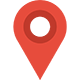
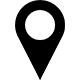
add script for floating fixed header and edit view map-marker

diff --git a/js/main.js b/js/main.js
@@ -25,7 +25,7 @@ var contact=document.querySelector(".contact-link");
 				top = top + 20;
 				console.log(top);
 				window.scrollTo(scrolledValue, top);	    
-				if (top > 3150) {
+				if (top > 3135) {
 			    clearInterval(scr);
 				}
 			}, 5);
@@ -34,8 +34,8 @@ var contact=document.querySelector(".contact-link");
 	
 
     function initialize() {
-	    var x = 50.473869;
-	    var y = 30.497340;
+	    var x = 50.473773;
+	    var y = 30.497345;
 	    var mapOptions = {
 	        zoom: 17,
 	        center: new google.maps.LatLng(x, y),
@@ -46,7 +46,7 @@ var contact=document.querySelector(".contact-link");
 	        document.querySelector(".map"),
 	        mapOptions
 	    );
-	    var image = "img/map-marker.png"; 
+	    var image = "img/map-marker-2.png"; 
 	    var myLatLng = new google.maps.LatLng(x, y);
 	    var beachMarker = new google.maps.Marker({
 	        position: myLatLng,
@@ -55,3 +55,22 @@ var contact=document.querySelector(".contact-link");
 	    });
 }
 google.maps.event.addDomListener(window, "load", initialize);		
+
+var header=document.querySelector(".main-header-block");
+var headerHiddenBlock=document.querySelector(".main-header-block-hidden");
+
+
+window.addEventListener("scroll", function(event) {
+  
+    var top = this.scrollY;
+ // console.log(top);
+ // console.log(header);
+  if (top >= 100) {
+    header.classList.add("main-header-block-hollow");
+ 	headerHiddenBlock.classList.add("visible");
+} else {
+	header.classList.remove("main-header-block-hollow");
+	headerHiddenBlock.classList.remove("visible");
+}
+
+}, false);

diff --git a/css/style.css b/css/style.css
@@ -19,17 +19,46 @@ body {
 	clear: both;
 	content: "";
 }
-.main-header-block-hollow {
-	height: 60px;
-}
+
 
 .main-header-block {
 	background-color: #3f3f3f;
+
+}
+	@keyframes floating {
+	0% {
+		transform: translateY(-100px);
+		background-color: rgba(64, 64, 64, 1);
+	} 
+	85% {
+	transform: translateY(+20px);
+	background-color: rgba(64, 64, 64, 0.9);
+	}
+	100% {
+		background-color: rgba(64, 64, 64, 0.7);
+		transform: translateY(0px);
+	}
+}
+
+.main-header-block-hollow {
+	height: 60px;
 	position: fixed;
 	top: 0;
 	width: 100%;
 	z-index: 100;
+	background-color: rgba(64, 64, 64, 0.7);
+	animation: floating .6s;
 }
+
+.main-header-block-hidden{
+	display: none; 
+	height:60px;
+	width: 100%;
+}
+.visible {
+	display: block;
+}
+
 .main-block {
 	float: left;
 	margin: 6px 55px 0 0;

diff --git a/index.html b/index.html
@@ -10,7 +10,7 @@
 </head>
 <body>
 	<header class="main-header">
-		<div class="main-header-block-hollow"></div>
+		<div class="main-header-block-hidden"></div>
 		<div class="main-header-block">
 			<div class="container  clearfix">
 				<div class="main-block">
